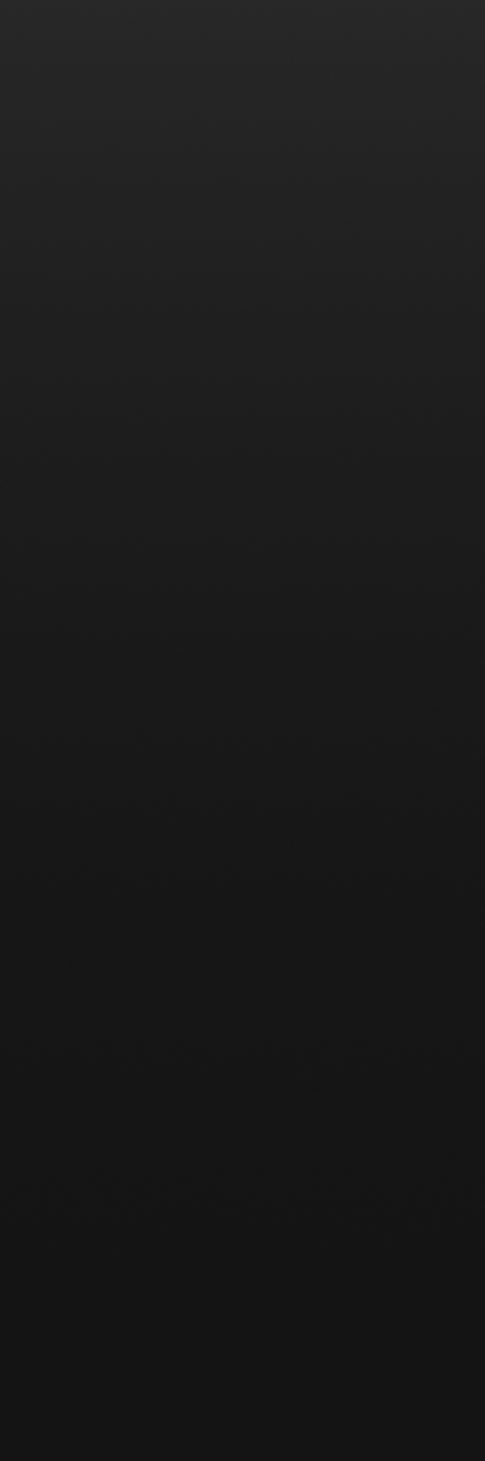
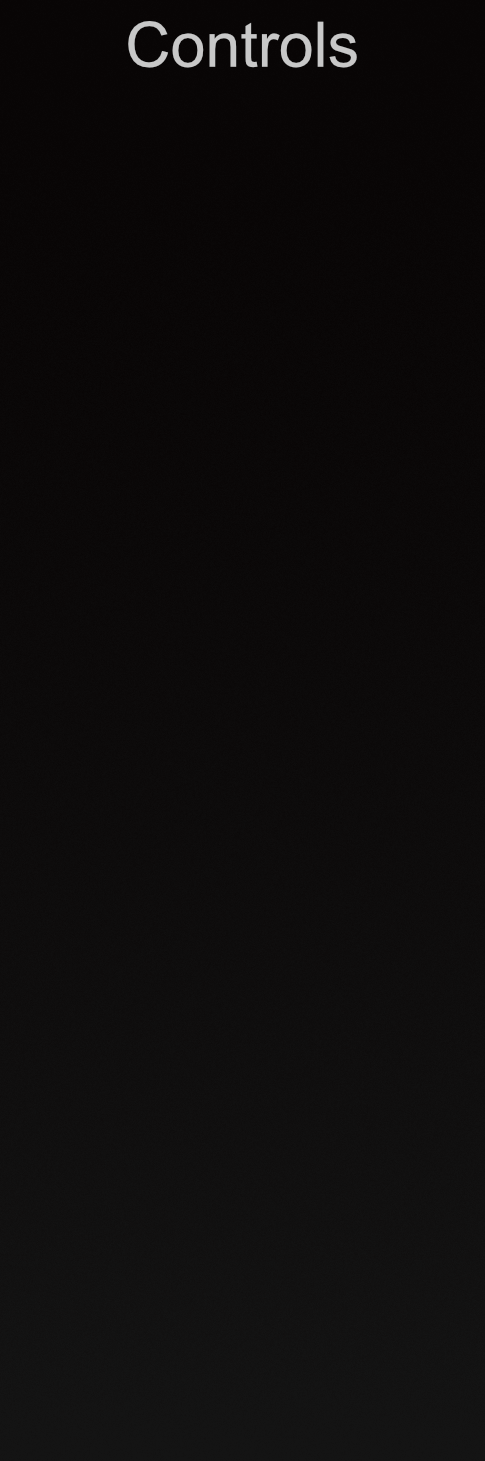
Gufran - improved UI

Changed region(s): [[0.0, 0.0, 1.0, 0.2772]]

diff --git a/core/src/main/java/com/ideaspace/ui/components/ModelCard.java b/core/src/main/java/com/ideaspace/ui/components/ModelCard.java
@@ -1,0 +1,73 @@
+package com.ideaspace.ui.components;
+
+import com.badlogic.gdx.maps.tiled.renderers.OrthoCachedTiledMapRenderer;
+import com.badlogic.gdx.scenes.scene2d.Actor;
+import com.badlogic.gdx.scenes.scene2d.ui.HorizontalGroup;
+import com.badlogic.gdx.scenes.scene2d.ui.Table;
+import com.badlogic.gdx.scenes.scene2d.utils.ChangeListener;
+import com.badlogic.gdx.utils.Align;
+import com.ideaspace.ui.screens.ModelsScreen;
+import com.kotcrab.vis.ui.widget.VisLabel;
+
+public class ModelCard extends ISTable{
+
+    private boolean isLoaded;
+    private String modelName;
+
+    private VisLabel modelNameLabel;
+    private ISButton addButton, removeButton;
+
+
+    public ModelCard(String modelName) {
+        super("ui/png/Model_card.png");
+        this.modelName = modelName;
+        this.align(Align.left);
+        this.pad(10);
+
+        createUI();
+        setupListeners();
+    }
+
+    private void createUI() {
+        modelNameLabel = new VisLabel(modelName);
+
+        addButton = new ISButton(
+            "ui/png/addButton.png",
+            "ui/png/addButton_hovered.png"
+        );
+
+        removeButton = new ISButton("ui/png/removeButton.png");
+
+        this.add(modelNameLabel).left().padTop(5).row();
+
+        Table table = new Table();
+
+        table.align(Align.right);
+        table.add(addButton).width(110f).height(80f).right();
+
+        //group.addActor(removeButton);
+
+        this.add(table).fillX().expandX();
+        this.setDebug(true);
+    }
+
+    private void setupListeners() {
+        addButton.addListener(new ChangeListener() {
+            @Override
+            public void changed(ChangeEvent event, Actor actor) {
+                if (!getLoaded()) {
+                    setLoaded(true);
+                }
+            }
+        });
+    }
+
+    private void setLoaded(boolean isLoaded) {
+        this.isLoaded = isLoaded;
+    }
+
+    private boolean getLoaded() {
+        return isLoaded;
+    }
+
+}

diff --git a/core/src/main/java/com/ideaspace/ui/screens/HomeScreen.java b/core/src/main/java/com/ideaspace/ui/screens/HomeScreen.java
@@ -87,14 +87,40 @@ public class HomeScreen {
         lectureButton.addListener(new ClickListener() {
             @Override
             public void clicked(InputEvent event, float x, float y) {
-                switchScreen(lectureScreen);
+                switchScreen(lectureScreen, lectureButton);
             }
         });
 
         modelsButton.addListener(new ClickListener() {
             @Override
             public void clicked(InputEvent event, float x, float y) {
-                switchScreen(modelsScreen);
+                switchScreen(modelsScreen, modelsButton);
+            }
+        });
+
+        howToUseButton.addListener(new ClickListener() {
+            @Override
+            public void clicked(InputEvent event, float x, float y) {
+                // Add your how-to-use screen here when ready
+                deselectAllButtons();
+                howToUseButton.setChecked(true);
+            }
+        });
+
+        settingsButton.addListener(new ClickListener() {
+            @Override
+            public void clicked(InputEvent event, float x, float y) {
+                // Add your settings screen here when ready
+                deselectAllButtons();
+                settingsButton.setChecked(true);
+            }
+        });
+
+        logOutButton.addListener(new ClickListener() {
+            @Override
+            public void clicked(InputEvent event, float x, float y) {
+                // Add your log out logic here
+                // Note: logOutButton doesn't have a selected state, so no need to select it
             }
         });
 
@@ -110,10 +136,23 @@ public class HomeScreen {
 
         root.add(navigationTable).width(220).pad(10);
         root.add(lectureScreen).expand().fill();
+
+        // Set initial selected button
+        lectureButton.setChecked(true);
     }
 
-    private void switchScreen(Actor newScreen) {
+    private void switchScreen(Actor newScreen, ISButton selectedButton) {
         root.getCells().get(1).setActor(newScreen);
+        deselectAllButtons();
+        selectedButton.setChecked(true);
+    }
+
+    private void deselectAllButtons() {
+        lectureButton.setChecked(false);
+        modelsButton.setChecked(false);
+        howToUseButton.setChecked(false);
+        settingsButton.setChecked(false);
+        // logOutButton doesn't have a selected state, so we don't need to deselect it
     }
 
     public void resize(int width, int height) {

diff --git a/core/src/main/java/com/ideaspace/ui/panels/ControlPanel.java b/core/src/main/java/com/ideaspace/ui/panels/ControlPanel.java
@@ -2,15 +2,20 @@ package com.ideaspace.ui.panels;
 
 import com.badlogic.gdx.Gdx;
 import com.badlogic.gdx.scenes.scene2d.Stage;
+import com.badlogic.gdx.scenes.scene2d.ui.HorizontalGroup;
+import com.badlogic.gdx.scenes.scene2d.ui.Table;
+import com.badlogic.gdx.utils.Align;
 import com.badlogic.gdx.utils.viewport.ExtendViewport;
 import com.badlogic.gdx.utils.viewport.FitViewport;
 import com.badlogic.gdx.utils.viewport.ScreenViewport;
 import com.ideaspace.IdeaSpace;
 import com.ideaspace.ui.components.ISButton;
 import com.ideaspace.ui.components.ISTable;
+import com.ideaspace.ui.components.ModelCard;
 import com.kotcrab.vis.ui.widget.VisLabel;
 import com.kotcrab.vis.ui.widget.VisTable;
 import com.kotcrab.vis.ui.widget.VisTextButton;
+import com.kotcrab.vis.ui.widget.tabbedpane.Tab;
 
 public class ControlPanel extends Stage{
 
@@ -18,14 +23,13 @@ public class ControlPanel extends Stage{
 
     private ISTable root;
 
-    private VisTextButton addSlide, removeSlide;
+    private ISButton loadedModelButton, libraryModelButton;
 
     public ControlPanel(IdeaSpace ideaSpace) {
 
         super(new ExtendViewport(Gdx.graphics.getWidth(), Gdx.graphics.getHeight(),
             Gdx.graphics.getWidth() + 400, Gdx.graphics.getHeight() + 200));
         this.ideaSpace = ideaSpace;
-
 
         root = new ISTable("ui/png/ControlPanelBG.png");
         root.setFillParent(false);
@@ -35,9 +39,35 @@ public class ControlPanel extends Stage{
     }
 
     private void createUI() {
-        root.setWidth(240);
+        root.setWidth(320);
         root.setHeight(870);
-        root.setPosition(0, Gdx.graphics.getHeight() - root.getHeight()); // Position at screen top
+        root.setPosition(0, Gdx.graphics.getHeight() - root.getHeight());
+        root.padTop(50);
+
+        loadedModelButton = new ISButton(
+            "ui/png/loaded_model_button.png",
+            "ui/png/loaded_model_button_hovered.png",
+            "ui/png/loaded_model_button_selected.png"
+        );
+
+        libraryModelButton = new ISButton(
+            "ui/png/library_model_button.png",
+            "ui/png/library_model_button_hovered.png",
+            "ui/png/library_model_button_selected.png"
+        );
+
+        Table table = new Table();
+        table.center();
+        table.padRight(5);
+        table.padLeft(5);
+        table.align(Align.center);
+        table.add(loadedModelButton).width(120f).height(80f).fillX().expandX();
+        table.add(libraryModelButton).width(120f).height(80f).fillX().expandX();
+
+        root.add(table).center().fillX().expandX().row();
+
+        root.add(new ModelCard("Arduino Uno Model")).width(310).height(110);
+
         this.addActor(root);
     }
 
@@ -49,5 +79,10 @@ public class ControlPanel extends Stage{
     public void resize(int width, int height) {
         this.getViewport().update(width, height, true);
     }
+
+    public Stage getStage() {
+        return this;
+    }
+
 
 }

diff --git a/core/src/main/java/com/ideaspace/handlers/ModelHandler.java b/core/src/main/java/com/ideaspace/handlers/ModelHandler.java
@@ -1,0 +1,13 @@
+package com.ideaspace.handlers;
+
+import com.ideaspace.IdeaSpace;
+
+public class ModelHandler {
+
+    private IdeaSpace ideaSpace;
+
+    public ModelHandler(IdeaSpace ideaSpace) {
+        this.ideaSpace = ideaSpace;
+    }
+
+}

diff --git a/core/src/main/java/com/ideaspace/ui/screens/LectureScreen.java b/core/src/main/java/com/ideaspace/ui/screens/LectureScreen.java
@@ -56,7 +56,10 @@ public class LectureScreen extends VisTable {
     }
 
     private void createLectureTable() {
-        createSlideButton = new ISButton("ui/png/CreateLectureButton.png");
+        createSlideButton = new ISButton(
+            "ui/png/CreateLectureButton.png",
+            "ui/png/CreateLectureButton_hovered.png"
+        );
 
         lectureTable.left();
         lectureTable.padLeft(20).padTop(5);

diff --git a/core/src/main/java/com/ideaspace/IdeaSpace.java b/core/src/main/java/com/ideaspace/IdeaSpace.java
@@ -28,7 +28,7 @@ public class IdeaSpace extends ApplicationAdapter {
     private InputMultiplexer multiplexer;
 
     private final boolean DEBUG_MODE = false;
-    private boolean lectureFlag = false;
+    private boolean lectureFlag = true;
 
 
     @Override
@@ -47,6 +47,7 @@ public class IdeaSpace extends ApplicationAdapter {
         multiplexer = new InputMultiplexer();
         multiplexer.addProcessor(space.getCameraController());
         multiplexer.addProcessor(homeScreen.getStage());
+        multiplexer.addProcessor(controlPanel.getStage());
         Gdx.input.setInputProcessor(multiplexer);
 
         space.loadObject(